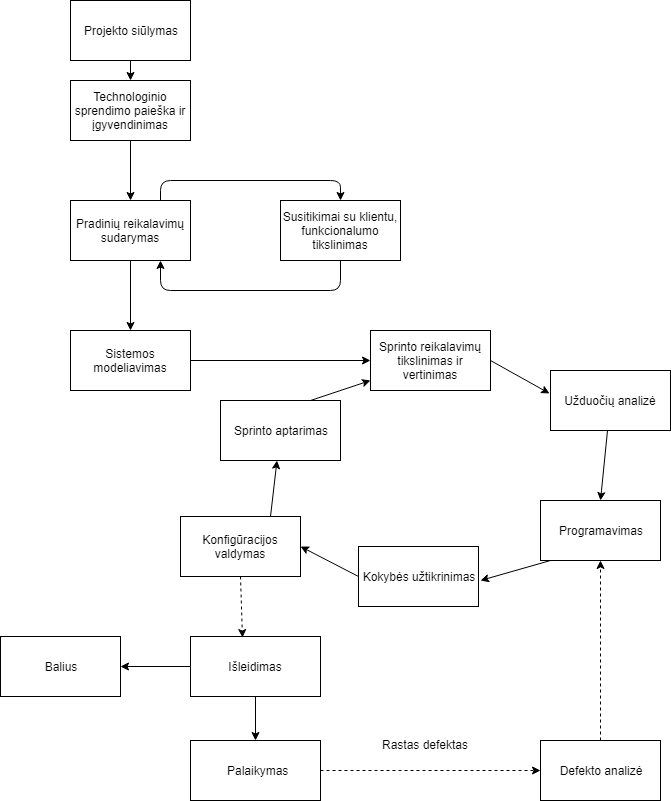
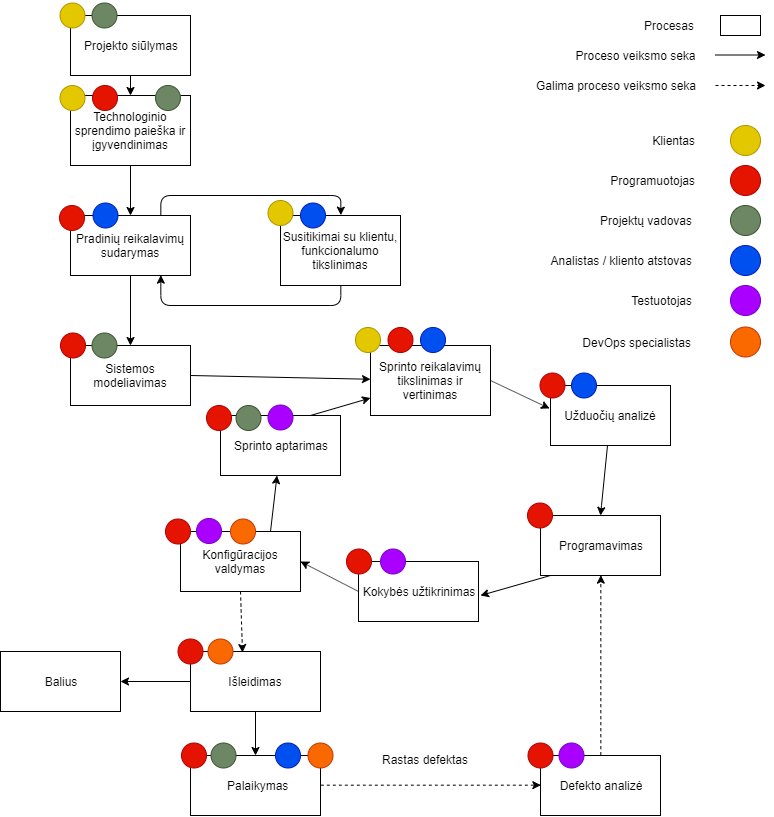
veiklos schemos atnaujinimas

diff --git a/PKP-Lab1.tex b/PKP-Lab1.tex
@@ -132,7 +132,8 @@
 	\subsection{Išleidimas}
 	Išleidimo stadiją galima skaidyti į 2 skirtingus tipus - galimas naujas projekto išleidimas, kurio metu vartotojui pateikiama nauja sistema, kuri buvo tam tikrą laiką kuriama. Taip pat egzistuoja kitas variantas, kai yra veikianti sistema, kuri yra atnaujinama kas tam tikrą laiką (tai priklauso nuo sprinto ilgi). Išleidimo metu įmonėje yra vykdomi darbuotojų budėjimai, kad sistemai veikiant ne tiksliai pagal planą, sistemos trikdžiai būtų kuo greičiau pašalinti.
 	\subsection{Palaikymas}
-	Palaikymo procesui kuriamas palaikymo planas, susidedantis iš programos paruošimo, problemos identifikavimo bei produkto konfigūracijos valdymo. Problemos identifikavimas vykdomas tikrinant programos validumą, sukuriant problemos sprendinį bei išskiriant resursus modifikacijai įgyvendinti. Proceso patvirtinimas įgyvendinamas gavus patvirtinimą dėl kėtinamų įgyvendinti pakeitimų  iš užklausos autoriaus. Įmonė teikia dviejų tipų palaikymą: taisomąjį bei adaptacinį. Taisomasis palaikymas orientuotas į problemų, atrastų vartotojų arba vartotojų klaidų reportų analizės metu, taisymą. Adaptacinis palaikymas skirtas nūdienos standartų programose palaikymui. Įmonė laikosi „Boehm“ modelio, kuris pasižymi atitinkamai pakeitimų pasiūlymu, patvirtinimu bei įgyvendinimu. *Boehm's model graph will insert later* 
+	Palaikymo procesui kuriamas palaikymo planas, susidedantis iš programos paruošimo, problemos identifikavimo bei produkto konfigūracijos valdymo. Problemos identifikavimas vykdomas tikrinant programos validumą, sukuriant problemos sprendinį bei išskiriant resursus modifikacijai įgyvendinti. Proceso patvirtinimas įgyvendinamas gavus patvirtinimą dėl kėtinamų įgyvendinti pakeitimų  iš užklausos autoriaus. Įmonė teikia dviejų tipų palaikymą: taisomąjį bei adaptacinį. Taisomasis palaikymas orientuotas į problemų, atrastų vartotojų arba vartotojų klaidų reportų analizės metu, taisymą. Adaptacinis palaikymas skirtas nūdienos standartų programose palaikymui. Įmonė laikosi „Boehm“ modelio, kuris pasižymi atitinkamai pakeitimų pasiūlymu, patvirtinimu bei įgyvendinimu.
+	\label{img:boehmsModel} 
 
 	\subsection{Balius/Post-mortem}
 	Procesas užbaigiamas komandos bei prie projekto prisidėjusių žmonių švente, kurioje aptariamas bei įvertinamas proceso pasisekimas ir daromos išvados.
